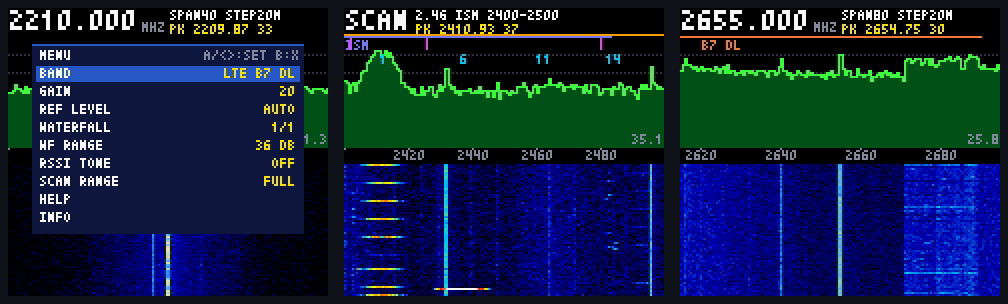
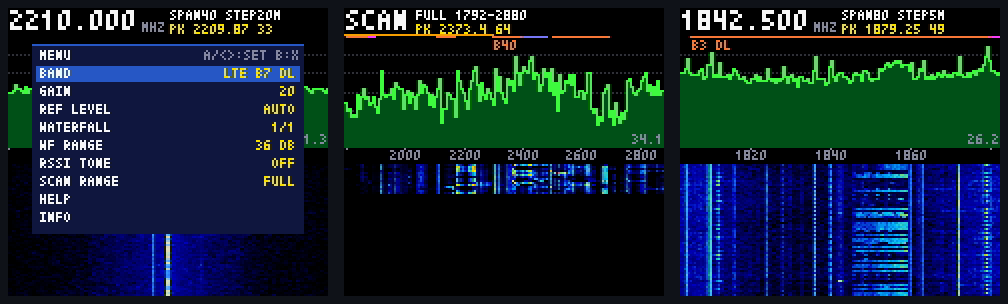
ChromatiX SDR post: 5/6 LO mode from eSpDR/ESP-SDR, tuning down to 1792 MHz

diff --git a/content/posts/chromatix-sdr/index.md b/content/posts/chromatix-sdr/index.md
@@ -2,8 +2,8 @@
 title: "ChromatiX SDR: a spectrum analyzer from the Chromatic's ESP32"
 date: 2026-10-05T08:30:00+02:00
 draft: false
-description: "ESPARGOS' ESP-SDR gets raw I/Q samples out of an ESP32's Wi-Fi radio. The ModRetro Chromatic has an ESP32 next to its FPGA, so we turned the console into a handheld 2.4 GHz spectrum analyzer: captures over the existing QSPI link into PSRAM, an FFT on a VexRiscv, a spectrum/waterfall UI on the LCD, tuning extended to 2150-2880 MHz, and a SoapySDR driver for gqrx and GNU Radio over USB."
-summary: "The Chromatic's ESP32 as an SDR: ESP-SDR on the radio side, the FPGA and a RISC-V on the console side, and a USB link to SoapySDR. How the samples move, how the tuning was pushed from the Wi-Fi channels to 2150-2880 MHz, and what the result can and cannot do."
+description: "ESPARGOS' ESP-SDR gets raw I/Q samples out of an ESP32's Wi-Fi radio. The ModRetro Chromatic has an ESP32 next to its FPGA, so we turned the console into a handheld 2.4 GHz spectrum analyzer: captures over the existing QSPI link into PSRAM, an FFT on a VexRiscv, a spectrum/waterfall UI on the LCD, tuning extended to 1792-2880 MHz, and a SoapySDR driver for gqrx and GNU Radio over USB."
+summary: "The Chromatic's ESP32 as an SDR: ESP-SDR on the radio side, the FPGA and a RISC-V on the console side, and a USB link to SoapySDR. How the samples move, how the tuning was pushed from the Wi-Fi channels to 1792-2880 MHz, and what the result can and cannot do."
 tags: ["litex", "fpga", "sdr", "esp32", "esp-sdr", "soapysdr", "gnuradio", "chromatix", "modretro"]
 categories: ["hardware"]
 showHero: false
@@ -17,7 +17,7 @@ undocumented debug path in Espressif's radios to capture raw I/Q samples from th
 small Chromatic patch, the captures travel over the console's existing QSPI link straight into
 PSRAM, and a VexRiscv computes the FFT and draws a spectrum, waterfall and band scan on the LCD
 at about 26 updates per second. We also pushed the tuning from the Wi-Fi channel frequencies to
-**2150-2880 MHz**. Over USB, the console relays the captures to the PC at 2.4 MB/s, and a SoapySDR
+**1792-2880 MHz**, the last part thanks to a finding from the community. Over USB, the console relays the captures to the PC at 2.4 MB/s, and a SoapySDR
 module makes it a source for gqrx, CubicSDR and GNU Radio. It is a burst receiver with a 2.4 GHz
 antenna, not a wideband SDR, and the post is clear about that too.*
 
@@ -103,7 +103,8 @@ writes a new divider, but the VCO's capacitor bank stays calibrated for 2412 MHz
 follow. ESP-SDR documents its extended range as not RF-validated, so this is not a bug report; it
 just meant the receiver could only look at the Wi-Fi channels.
 
-We fixed it in two steps, in `chromatic_tune.c`, one of the files our build adds to ESP-SDR.
+We extended it in three steps. The first two are ours, in `chromatic_tune.c`, one of the files our
+build adds to ESP-SDR; the third came from the community.
 
 The first step uses a function of Espressif's PHY library, `set_chan_freq_sw_start`, which we found
 by disassembling `libphy.a`. Wi-Fi and the Bluetooth PHY use it for their channels: it runs the full
@@ -120,20 +121,36 @@ the expected result, fitted from the calibration results, makes the calibration 
 **2150 to 2880 MHz**, repeatably, with the LO within 2 kHz. Below 2150 or above 2880 MHz the
 calibration never locks, whatever the starting point; that is the edge of the VCO's range.
 
+The third step came from outside. h0m3us3r's
+[eSpDR](https://github.com/h0m3us3r/eSpDR), another ESP32 SDR project,
+[found](https://github.com/h0m3us3r/eSpDR/blob/main/docs/LO-EXTENSION.md) a selector in the
+radio's clock generator (analog block 0x65, register 0, bit 4) that makes the receive LO
+**5/6 of the PLL frequency**. ESPARGOS then qualified it on the original ESP32 in
+[ESP-SDR](https://github.com/ESPARGOS/esp-sdr/commit/9cfc5e0) with a signal generator. Since our
+table tuning already places the PLL anywhere from 2150 to 2880 MHz, combining the two was direct:
+below 2150 MHz, the firmware tunes the PLL to 6/5 of the requested frequency (calibrating in the
+normal mode), then sets the selector once the receive path is configured. That extends the range
+down to **1792 MHz**, with the LO within 1 to 4 kHz of the request across 1793-2147 MHz. The
+console now tunes **1792 to 2880 MHz** in 1 kHz steps.
+
 On top of that, opening the receiver's low-pass filter at 80 MS/s gives a usable view of about
-±38 MHz around the LO. The console and the PC can see roughly 2112 to 2918 MHz.
+±38 MHz around the LO. The console and the PC can see roughly 1754 to 2918 MHz.
 
 With the antenna and LNA matched for 2.4 GHz, sensitivity outside the ISM band is lower. Real
-signals still come through: the mobile band 1 downlink carriers just below 2170 MHz, and a 20 MHz
-LTE band 7 downlink carrier at 2680 MHz, seen at several LO settings and sample rates so it is not
-an image.
+signals still come through: a 15 MHz LTE band 3 downlink carrier at 1845-1860 MHz, the mobile
+band 1 downlink carriers up to 2170 MHz, and a 20 MHz LTE band 7 downlink carrier at 2680 MHz,
+each seen at several LO settings so they are not images.
 
 {{< figure src="img/sdr_host_2655_80msps.png" alt="Host spectrum plot at 80 MS/s centred on 2655 MHz, showing a flat noise floor with crystal harmonic lines and a block-shaped 20 MHz LTE carrier occupying about 2671 to 2689 MHz" caption="An LTE band 7 downlink carrier at 2680 MHz, captured at 80 MS/s and plotted on the PC. Far outside the Wi-Fi channels the stock firmware could tune." >}}
 
+{{< figure src="img/sdr_host_1842_80msps.png" alt="Host spectrum plot at 80 MS/s centred on 1842 MHz, showing crystal harmonic lines and a 15 MHz block-shaped LTE carrier between 1845 and 1860 MHz" caption="At the other end, with the 5/6 LO mode: a 15 MHz LTE band 3 downlink carrier at 1845-1860 MHz." >}}
+
 Our ESP32 firmware is ESP-SDR pinned to a specific upstream commit, plus a small patch and two
 source files (the QSPI transport and the tuning), all applied by `firmware/esp32-sdr/build.sh`. The
-protocol is unchanged, so the same firmware still works as a stock ESP-SDR with ESPARGOS' viewers. We plan to propose the extended tuning to ESP-SDR upstream, since
-every original-ESP32 user would benefit from it, not only the Chromatic.
+protocol is unchanged, so the same firmware still works as a stock ESP-SDR with ESPARGOS' viewers. We plan to propose the table tuning to ESP-SDR upstream, since
+every original-ESP32 user would benefit from it, not only the Chromatic. The 5/6 mode shows how
+well this works in the other direction: found in eSpDR, qualified in ESP-SDR, and in our firmware
+the next working day.
 
 ## The handheld UI
 
@@ -142,14 +159,14 @@ tuning step and the level at the peak or at the cursor. Under it, a spectrum wit
 known bands, Wi-Fi channel numbers, the three BLE advertising channels and an optional peak hold,
 then a waterfall.
 
-{{< figure src="img/sdr-ui.png" alt="Three 160x144 screens of the console SDR application: the menu with band presets and settings, a band scan of the 2.4 GHz ISM band, and the spectrum view on the LTE band 7 downlink preset with an 80 MHz span" caption="Menu with band presets, a band scan of the 2.4 GHz ISM band, and the LTE B7 downlink preset at 80 MHz span." >}}
+{{< figure src="img/sdr-ui.png" alt="Three 160x144 screens of the console SDR application: the menu with band presets and settings, a band scan of the full 1792-2880 MHz range, and the spectrum and waterfall on the LTE band 3 downlink preset at 1842.5 MHz with an 80 MHz span" caption="Menu with band presets, a band scan of the full 1792-2880 MHz range, and the LTE B3 downlink preset at 1.8 GHz." >}}
 
 Select switches between three views: spectrum with waterfall, waterfall only, and a band scan that
 sweeps a range in 64 MHz steps with wide 80 MS/s captures, from the 2.4 GHz ISM band to the full
-2150-2880 MHz range in 12 steps. Left and Right tune (faster when held), Up and Down change the
+1792-2880 MHz range in 17 steps. Left and Right tune (faster when held), Up and Down change the
 tuning step from 10 kHz to 20 MHz, A changes the span between 16, 40 and 80 MHz, B brings up a
-cursor that A tunes to. The menu has band presets (Wi-Fi channels 1, 6 and 11, Bluetooth, and the
-LTE bands in range), gain, reference level, waterfall settings and help pages.
+cursor that A tunes to. The menu has band presets (Wi-Fi channels 1, 6 and 11, Bluetooth, DECT, and
+the LTE bands in range, from band 3 at 1.8 GHz to band 7 at 2.6 GHz), gain, reference level, waterfall settings and help pages.
 
 The RSSI tone is our favourite feature. It plays a tone through the speaker, with the pitch
 following the level at the cursor, so you can tune to an emitter and walk around the room to find
@@ -185,11 +202,11 @@ root cause is still open.
 
 ## Limits
 
-We want to be clear about what this is. It is a 2.4 GHz-centred receiver that sees roughly 2.1 to
+We want to be clear about what this is. It is a 2.4 GHz-centred receiver that sees roughly 1.75 to
 2.9 GHz in bursts of about 100 µs to 400 µs, with a duty cycle around 3% at 40 MS/s. It is good for
 watching Wi-Fi and Bluetooth activity, finding emitters, looking at band occupancy and LTE carriers
-in range. There is no broadcast FM, no ADS-B at 1090 MHz and no GPS at 1575 MHz: they are outside
-the VCO range, and we checked that no second-order or harmonic trick reaches them usefully. The
+in range. There is no broadcast FM, no ADS-B at 1090 MHz and no GPS at 1575 MHz: they are below
+even the 5/6 LO range, and we checked that no second-order or harmonic trick reaches them usefully. The
 console's own 24 MHz harmonics show up as spurs.
 
 Flashing ESP-SDR also replaces ModRetro's ESP32 firmware, so while it is installed the console has
@@ -228,7 +245,7 @@ the device string `soapy=0,driver=chromatic`. All the measurements, checks and d
 
 *The foundation of all this is [ESP-SDR](https://espargos.net/espsdr/) by
 [ESPARGOS](https://espargos.net/) (Florian Euchner, [esp-sdr](https://github.com/ESPARGOS/esp-sdr),
-GPL-3.0): the raw I/Q capture of the ESP32 radio, its firmware and protocol. ChromatiX adds the
+GPL-3.0): the raw I/Q capture of the ESP32 radio, its firmware and protocol. The 5/6 LO mode comes from h0m3us3r's [eSpDR](https://github.com/h0m3us3r/eSpDR). ChromatiX adds the
 Chromatic transport and tuning patch, the console application and the PC side. Thanks to
 [ModRetro](https://modretro.com/) for the open MCU and FPGA designs that made the QSPI link easy to
 reuse. Built on [LiteX](https://github.com/enjoy-digital/litex) and
